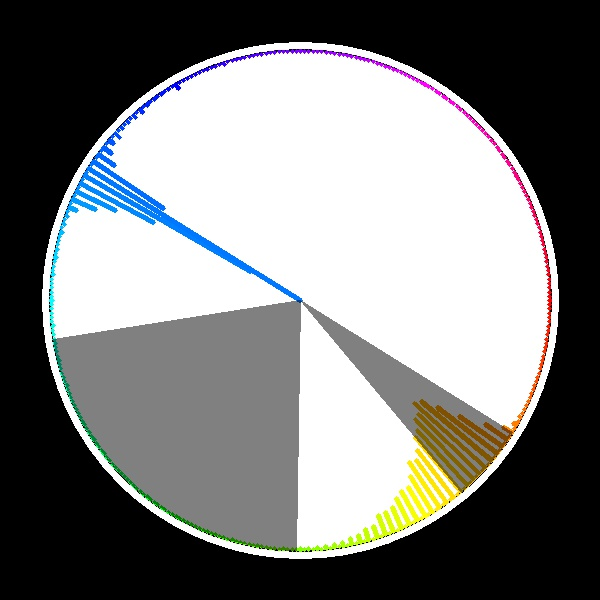
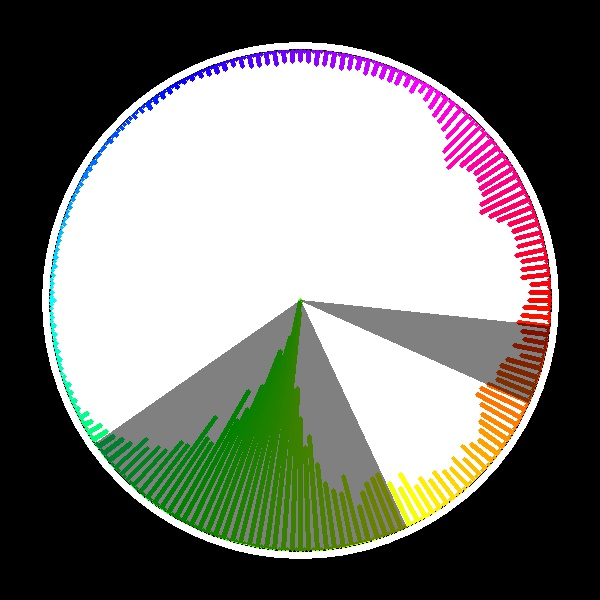
spatial

diff --git a/color_harmonization.py b/color_harmonization.py
@@ -3,8 +3,6 @@
 import cv2
 import sys
 import numpy as np
-from scipy.optimize import minimize, rosen, rosen_der
-
 import util
 import importlib
 importlib.reload(util)
@@ -100,7 +98,7 @@ class HarmonicScheme:
         H_dis = H_dis.min(axis=0)
         return H_dis
 
-    def hue_shifted(self, X):
+    def hue_shifted(self, X, num_superpixels=-1):
         Y = X.copy()
         H = X[:, :, 0].astype(np.int32)*2
         
@@ -108,7 +106,34 @@ class HarmonicScheme:
         H_d2b = np.asarray(H_d2b)
         
         H_cls = np.argmin(H_d2b, axis=0)
-        H_d2b = H_d2b.min(axis=0)
+        if num_superpixels != -1:
+            SEEDS = cv2.ximgproc.createSuperpixelSEEDS(X.shape[1], X.shape[0], X.shape[2], num_superpixels, 10)
+            SEEDS.iterate(X, 4)
+            '''
+            contour = SEEDS.getLabelContourMask()
+            for y in range(HSV_image.shape[0]):
+                for x in range(HSV_image.shape[1]):
+                    if contour[y,x] == 255:
+                        color_image[y,x,0] = 255
+                        color_image[y,x,1] = 255
+                        color_image[y,x,2] = 255
+            cv2.imwrite("seeds.jpg", color_image)
+            '''
+            V = np.zeros(H.shape).reshape(-1)
+            N = V.shape[0]
+
+            grid_num = SEEDS.getNumberOfSuperpixels()
+            labels = SEEDS.getLabels()
+            for i in range(grid_num):
+
+                P = [ [], [] ]
+                s = np.average(H_cls[labels==i])
+                print(i, s)
+                if s > 0.5:
+                    s = 1
+                else:
+                    s = 0
+                H_cls[labels==i] = s
 
         H_ctr = np.zeros((H.shape))
         H_wid = np.zeros((H.shape))
@@ -142,15 +167,11 @@ class HarmonicScheme:
         Y[:,:,0] = H_new
         return Y
 
-    def optimize_ETm(self, H):
-        from cvxopt import matrix, solvers
-        V = np.zeros(H.shape).reshape(-1)
-        res = minimize(fun, (2, 0), method='SLSQP', bounds=bnds, constraints=cons)
-
-    def energy_E(self, X, V, p):
+    def energy_E(self, X, V, P):
         w1 = 1.0
         w2 = 1.0
-        return w1 * self.energy_E1(X, V, p) + w2 * self.energy_E2(X, V, p)
+        e = w1 * self.energy_E1(X, V, P)# + w2 * self.energy_E2(X, V, p)
+        return e
 
     def energy_E1(self, X, V, P):
         # Opencv store H as [0, 180) --> [0, 360)
@@ -194,6 +215,7 @@ class HarmonicScheme:
 
 
 def B(X):
+    '''
     F_matrix = np.zeros((M, A))
     for i in range(M):
         m = template_types[i]
@@ -202,11 +224,13 @@ def B(X):
             alpha = 360/A * j
             harmomic_scheme = HarmonicScheme(m, alpha)
             F_matrix[i, j] = harmomic_scheme.harmony_score(X)
-    (best_m_idx, best_alpha) = np.unravel_index( np.argmin(F_matrix), F_matrix.shape )
-    best_m = template_types[best_m_idx]
+    '''
+    #(best_m_idx, best_alpha) = np.unravel_index( np.argmin(F_matrix), F_matrix.shape )
+    #best_m = template_types[best_m_idx]
 
-    #best_m = "L"
-    best_alpha = np.argmin(F_matrix[best_m_idx])
+    best_m = "L"
+    best_alpha = 15
+    #best_alpha = np.argmin(F_matrix[best_m_idx])
     #(best_m_idx, best_alpha) = np.unravel_index( np.argmin(F_matrix), F_matrix.shape )
     #best_m = template_types[best_m_idx]
 

diff --git a/binary_solver.py b/binary_solver.py
@@ -2,44 +2,42 @@ import cv2
 import numpy as np
 import sys
 import util
-from scipy.optimize import minimize, rosen, rosen_der
+import itertools
+
+import importlib
+importlib.reload(util)
 
 image_filename = sys.argv[1]
 color_image = cv2.imread(image_filename, cv2.IMREAD_COLOR)
 
-height = color_image.shape[0]
-width  = color_image.shape[1]
+
 
 HSV_image = cv2.cvtColor(color_image, cv2.COLOR_BGR2HSV)
 
-I = HSV_image[0:20, 0:20]
+I = HSV_image
 height = I.shape[0]
 width  = I.shape[1]
+channel = I.shape[2]
 # Opencv store H as [0, 180) --> [0, 360)
 H = I[:, :, 0].astype(np.int32)* 2
-H = H.reshape(-1)
 # Opencv store S as [0, 255] --> [0, 1]
 S = I[:, :, 1].astype(np.float32) / 255.0
-S = S.reshape(-1)
-P = [ [1,2],[3,4] ]
-
-a = 0.3
-b = 0.4
-def f(x):
-	return np.sum(np.multiply( x-a, x-b ))
+P = [ [], [] ]
+#P = [ [0,0,1,1],[0,1,0,1] ]
 
 def energy_E(V):
-    w1 = 10
+    w1 = 1.0
     w2 = 1.0
-    return w1 * energy_E1(V) + w2 * energy_E2(V)
+    return w1 * energy_E1(V)# + w2 * energy_E2(V)
 
 def energy_E1(V):
-    H_P = H[ P[0] + np.multiply(P[1],width) ]
-    V_P = V[ P[0] + np.multiply(P[1],width) ]
+    H_P = H[ P[0], P[1] ]
+    V_P = V[ P[0], P[1] ]
     H_V_P = V_P.copy()
     H_V_P[V_P < 0.5] = 120
     H_V_P[V_P >= 0.5] = 240
-    S_P = S[ P[0] + np.multiply(P[1],width) ]
+    #print(V_P, H_V_P)
+    S_P = S[ P[0], P[1] ]
 
     d = np.deg2rad(util.deg_distance(H_P, H_V_P))
     s = S_P
@@ -51,13 +49,13 @@ def energy_E1(V):
 def energy_E2(V):
     P_set, Q_set = util.PQ_N4(I, P)
 
-    V_P = V[ P_set[0] + np.multiply(P_set[1],width) ]    
-    V_Q = V[ Q_set[0] + np.multiply(Q_set[1],width) ]
+    V_P = V[ P_set[0], P_set[1] ]    
+    V_Q = V[ Q_set[0], Q_set[1] ]
     
-    S_P = S[ P_set[0] + np.multiply(P_set[1],width) ]
-    S_Q = S[ Q_set[0] + np.multiply(Q_set[1],width) ]
-    H_P = H[ P_set[0] + np.multiply(P_set[1],width) ]
-    H_Q = H[ Q_set[0] + np.multiply(Q_set[1],width) ]
+    S_P = S[ P_set[0], P_set[1] ]
+    S_Q = S[ Q_set[0], Q_set[1] ]
+    H_P = H[ P_set[0], P_set[1] ]
+    H_Q = H[ Q_set[0], Q_set[1] ]
     
     delta = util.delta( V_P, V_Q )
     s_max = np.max((S_P, S_Q), axis=0)
@@ -69,11 +67,32 @@ def energy_E2(V):
 
     return e2
 
-
+SEEDS = cv2.ximgproc.createSuperpixelSEEDS(HSV_image.shape[1], HSV_image.shape[0], HSV_image.shape[2], 400, 30)
+SEEDS.iterate(HSV_image, 10)
+'''
+contour = SEEDS.getLabelContourMask()
+for y in range(HSV_image.shape[0]):
+    for x in range(HSV_image.shape[1]):
+        if contour[y,x] == 255:
+            color_image[y,x,0] = 255
+            color_image[y,x,1] = 255
+            color_image[y,x,2] = 255
+cv2.imwrite("seeds.jpg", color_image)
+'''
 V = np.zeros(H.shape).reshape(-1)
-V += 0.5
-bnds = []
-for _ in range(V.shape[0]):
-	bnds.append((0,1))
-res = minimize(energy_E, V, method='SLSQP')
+N = V.shape[0]
+
+grid_num = SEEDS.getNumberOfSuperpixels()
+labels = SEEDS.getLabels()
+for i in range(grid_num):
+    P = [ [], [] ]
+    for y in range(height):
+        for x in range(width):
+            if labels[y,x] == i:
+                P[0].append(y)
+                P[1].append(x)
+    V0 = np.zeros(H.shape).astype(int)
+    V1 = np.ones(H.shape).astype(int)
+    #print(energy_E2(V0))
+    print(i, energy_E(V0), energy_E(V1))
 

diff --git a/util.py b/util.py
@@ -19,8 +19,7 @@ def delta(P, Q):
 
 def PQ_N4(I, P):
     Px, Py, Qx, Qy = [], [], [], []
-    for p in P:
-        px, py = p
+    for px, py in zip(P[0], P[1]):
         for dx, dy in dxdy_N4:
             qx, qy = px+dx, py+dy
             if qy < 0 or qy >= I.shape[0] or qx < 0 or qx >= I.shape[1]:
@@ -33,8 +32,7 @@ def PQ_N4(I, P):
 
 def PQ_N4(I, P):
     Px, Py, Qx, Qy = [], [], [], []
-    for p in P:
-        px, py = p
+    for px, py in zip(P[0], P[1]):
         for dx, dy in dxdy_N8:
             qx, qy = px+dx, py+dy
             if qy < 0 or qy >= I.shape[0] or qx < 0 or qx >= I.shape[1]:
@@ -43,7 +41,6 @@ def PQ_N4(I, P):
             Py.append(py)
             Qx.append(qx)
             Qy.append(qy)
-    PQ = np.asarray([Px, Py, Qx, Qy])
     return [Px, Py], [Qx, Qy]
 
 def normalized_gaussian(X, mu, S):

diff --git a/main.py b/main.py
@@ -28,7 +28,8 @@ overlay = util.draw_harmonic_scheme(best_harmomic_scheme, canvas)
 cv2.addWeighted(overlay, 0.5, canvas, 1 - 0.5, 0, canvas)
 cv2.imwrite("hue_source.jpg", canvas)
 
-new_HSV_image = best_harmomic_scheme.hue_shifted(HSV_image)
+num_superpixels = 200
+new_HSV_image = best_harmomic_scheme.hue_shifted(HSV_image, num_superpixels)
 
 histo = util.count_hue_histogram(new_HSV_image)
 canvas = util.draw_polar_histogram(histo)
